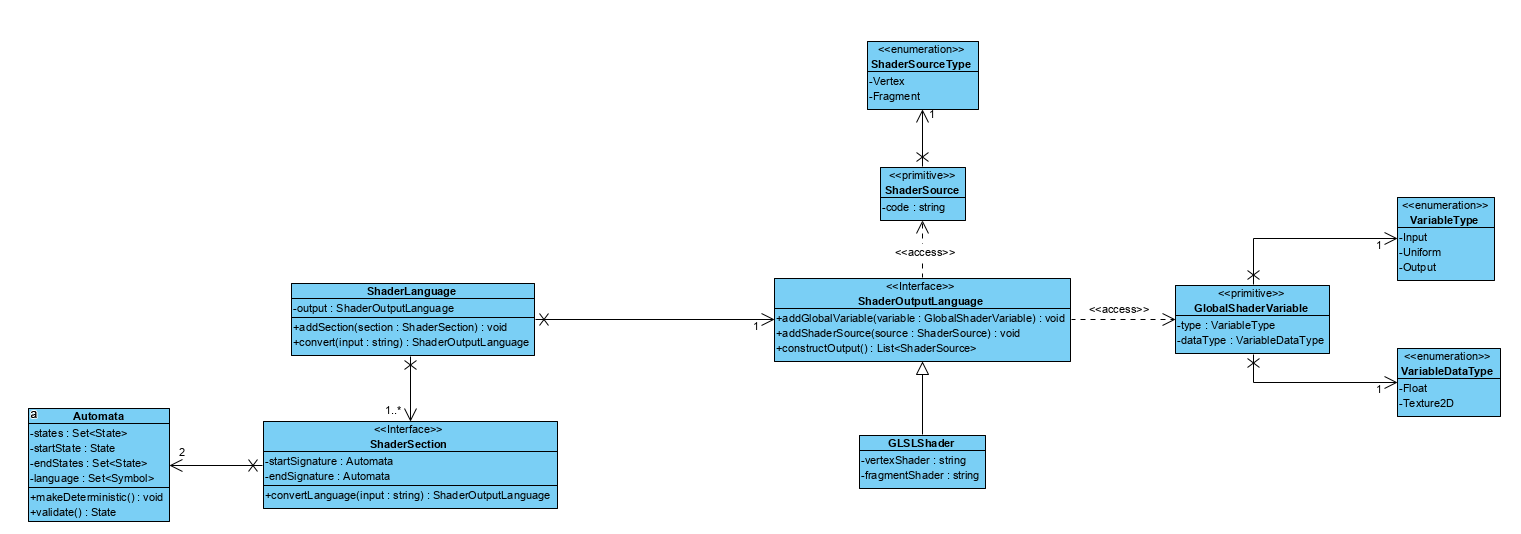
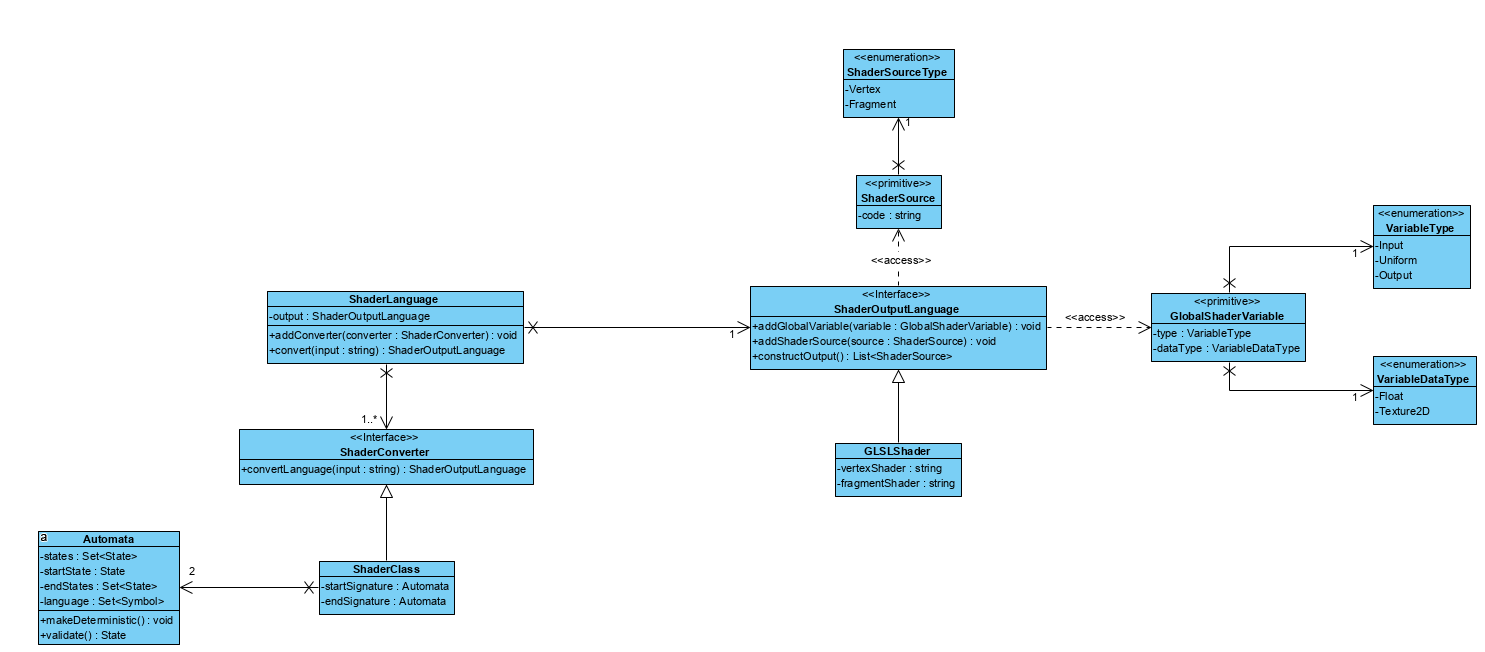
[ADDED] start of shader compiler

Changed region(s): [[0.0, 0.0599, 1.0, 1.0], [0.5576, 0.809, 0.6505, 0.9288]]

diff --git a/CustomShaderCompiler/src/shaderCompiler/ShaderOutputLanguage.h b/CustomShaderCompiler/src/shaderCompiler/ShaderOutputLanguage.h
@@ -1,0 +1,66 @@
+#pragma once
+#include <vector>
+#include <string>
+
+// ------------------------------------------------
+//					ShaderSource
+// ------------------------------------------------
+enum class ShaderSourceType
+{
+	Vertex,
+	Fragment,
+
+	Output
+};
+
+struct ShaderSource
+{
+	std::string code;
+	ShaderSourceType type;
+};
+
+
+// ------------------------------------------------
+//				GlobalShaderVariable
+// ------------------------------------------------
+enum class VariableType
+{
+	VertexInput,
+	VertexOutput,
+	
+	Uniform,
+
+	FragmentInput,
+	FragmentOutput
+};
+
+enum class VariableDataType
+{
+	Float,
+	Texture2D
+};
+
+struct GlobalShaderVariable
+{
+	VariableType type;
+	VariableDataType dataType;
+};
+
+
+// ------------------------------------------------
+//				ShaderOutputLanguage
+// ------------------------------------------------
+
+class ShaderOutputLanguage
+{
+public:
+	virtual ~ShaderOutputLanguage() = default;
+
+	virtual void addGlobalVariable() = 0;
+	virtual void addShaderSource() = 0;
+
+	virtual std::vector<GlobalShaderVariable> getVariables() = 0;
+	virtual std::vector<ShaderSource> getShaderSources() = 0;
+
+	virtual std::vector<ShaderSource> constructOutput() = 0;
+};

diff --git a/CustomShaderCompiler/src/Main.cpp b/CustomShaderCompiler/src/Main.cpp
@@ -1,7 +1,6 @@
 #include <iostream>
-#include "Automata.h"
-#include "Regex.h"
-#include "Symbol.h"
+#include "shaderCompiler/automata/Automata.h"
+#include "shaderCompiler/automata/Regex.h"
 
 int main()
 {	
@@ -9,7 +8,7 @@ int main()
 	
 	Automata m = regex.constructAutomata();
 	m.makeDeterministic();
-	//m.printTransitions();
+	m.printTransitions();
 
 	std::vector<std::string> input = { "appel", "b", "b" };
 	bool isValid = m.validate(input);
@@ -27,3 +26,10 @@ int main()
 	// isValid = m.validate("abbaab");
 	// std::cout << isValid << std::endl;
 }
+
+
+/*
+ *
+ * Split the input with enters
+ * 
+ */

diff --git a/CustomShaderCompiler/src/shaderCompiler/ShaderLanguage.h b/CustomShaderCompiler/src/shaderCompiler/ShaderLanguage.h
@@ -1,0 +1,20 @@
+#pragma once
+#include <memory>
+#include <vector>
+#include <string>
+#include "ShaderOutputLanguage.h"
+#include "ShaderConverter.h"
+
+class ShaderLanguage
+{
+private:
+	std::shared_ptr<ShaderOutputLanguage> m_output;
+	std::vector<std::shared_ptr<ShaderConverter>> m_converters;
+
+public:
+	ShaderLanguage() = default;
+
+	void addConverter(std::shared_ptr<ShaderConverter> converter);
+
+	std::shared_ptr<ShaderOutputLanguage> convert(const std::string& input);
+};

diff --git a/CustomShaderCompiler/src/shaderCompiler/ShaderConverter.h b/CustomShaderCompiler/src/shaderCompiler/ShaderConverter.h
@@ -1,0 +1,12 @@
+#pragma once
+#include <string>
+#include <memory>
+#include "ShaderOutputLanguage.h"
+
+class ShaderConverter
+{
+public:
+	virtual ~ShaderConverter() = default;
+
+	virtual std::shared_ptr<ShaderOutputLanguage> convertLanguage(const std::string& input) = 0;
+};
